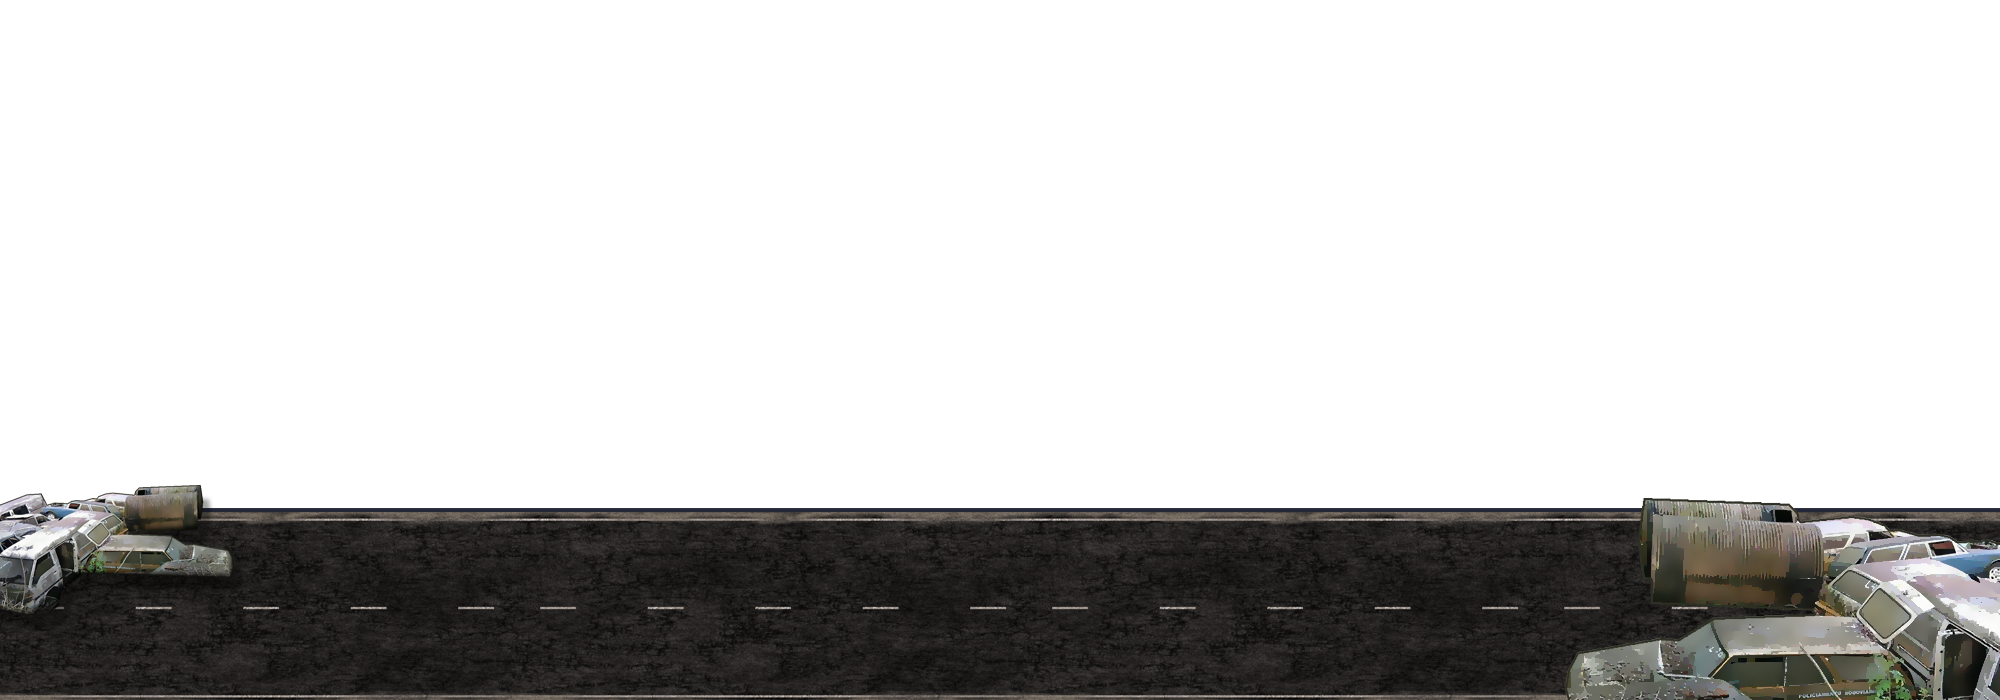
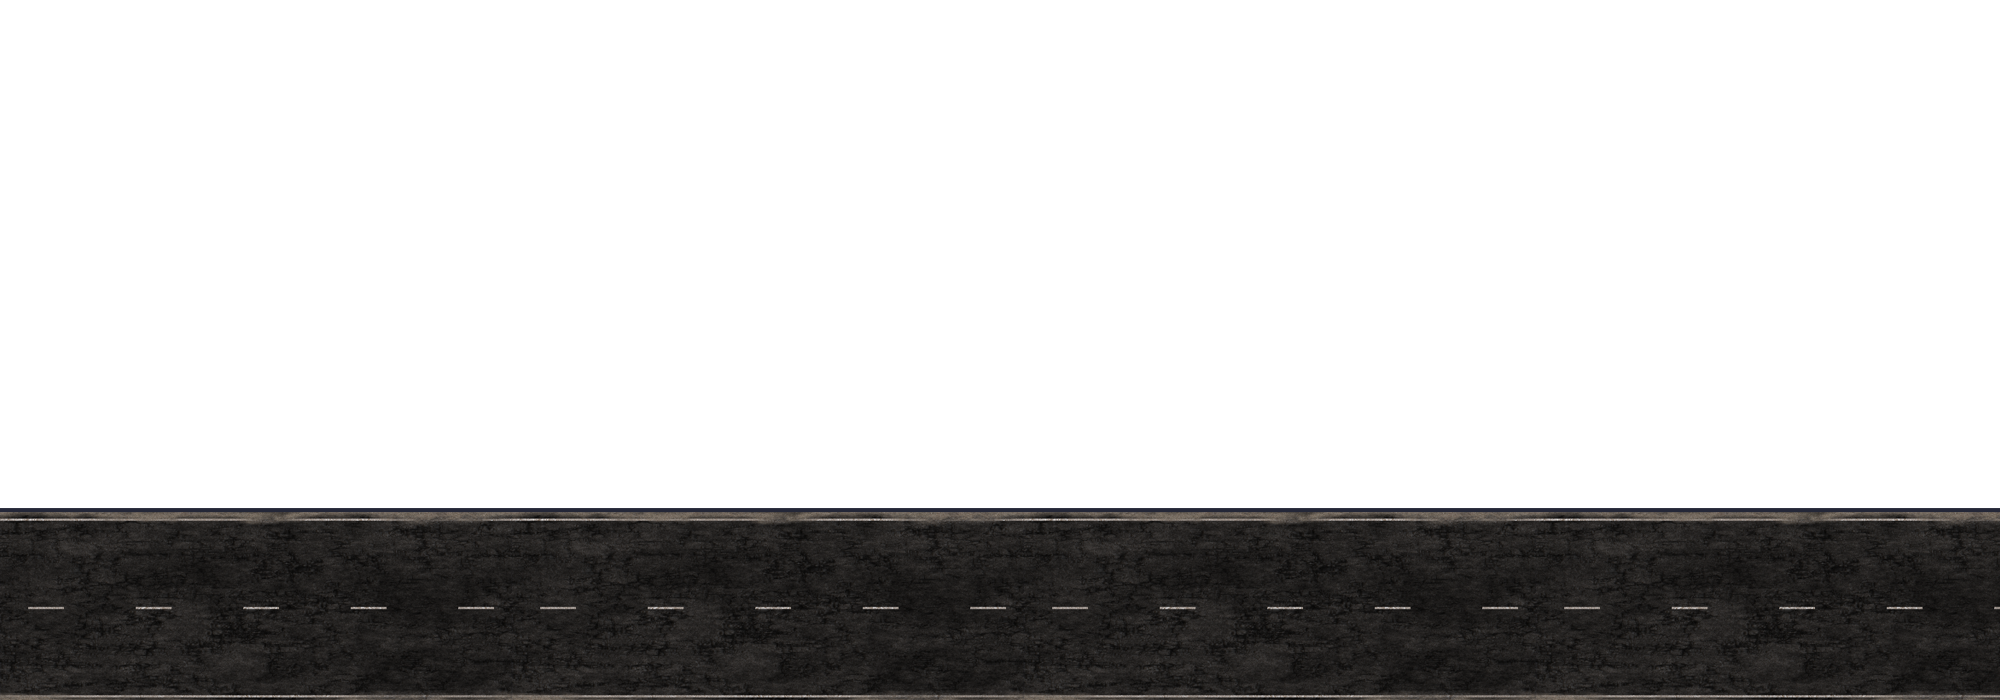
debris added to area edges

Changed region(s): [[0.775, 0.69, 1.0, 1.0], [0.0, 0.69, 0.124, 0.87]]

diff --git a/js/background.js b/js/background.js
@@ -1,4 +1,4 @@
-var bgImage1,bgImage5,bgImage6,cloudImage,fogImage;
+var bgImage1,bgImage5,bgImage6,cloudImage,fogImage,leftBorderImage,rightBorderImage;
 
 var background = {
     draw : function() {
@@ -23,6 +23,16 @@ var background = {
             cloudImage.src="images/clouds.png";
             cloudImage.onload = function() { this.loaded=true; }
         }
+        if (!leftBorderImage) { 
+            leftBorderImage = new Image();
+            leftBorderImage.src="images/debris-left.png";
+            leftBorderImage.onload = function() { this.loaded=true; }
+        }
+        if (!rightBorderImage) { 
+            rightBorderImage = new Image();
+            rightBorderImage.src="images/debris-right.png";
+            rightBorderImage.onload = function() { this.loaded=true; }
+        }
 
         if (bgImage1.loaded) context.drawImage(bgImage1,-player.x/7,0);
         context.globalAlpha = 0.1;
@@ -30,6 +40,11 @@ var background = {
         context.globalAlpha = 1;
         if (bgImage5.loaded) context.drawImage(bgImage5,-player.x/3,0);
         if (bgImage6.loaded) context.drawImage(bgImage6,-player.x/2.5,0);
+
+        if (leftBorderImage.loaded) context.drawImage(leftBorderImage,-player.x/2.5-1000,canvas.height-592);
+        if (rightBorderImage.loaded) context.drawImage(rightBorderImage,-player.x/2.5+1000,canvas.height-270);
+
+
     }
 }
 
